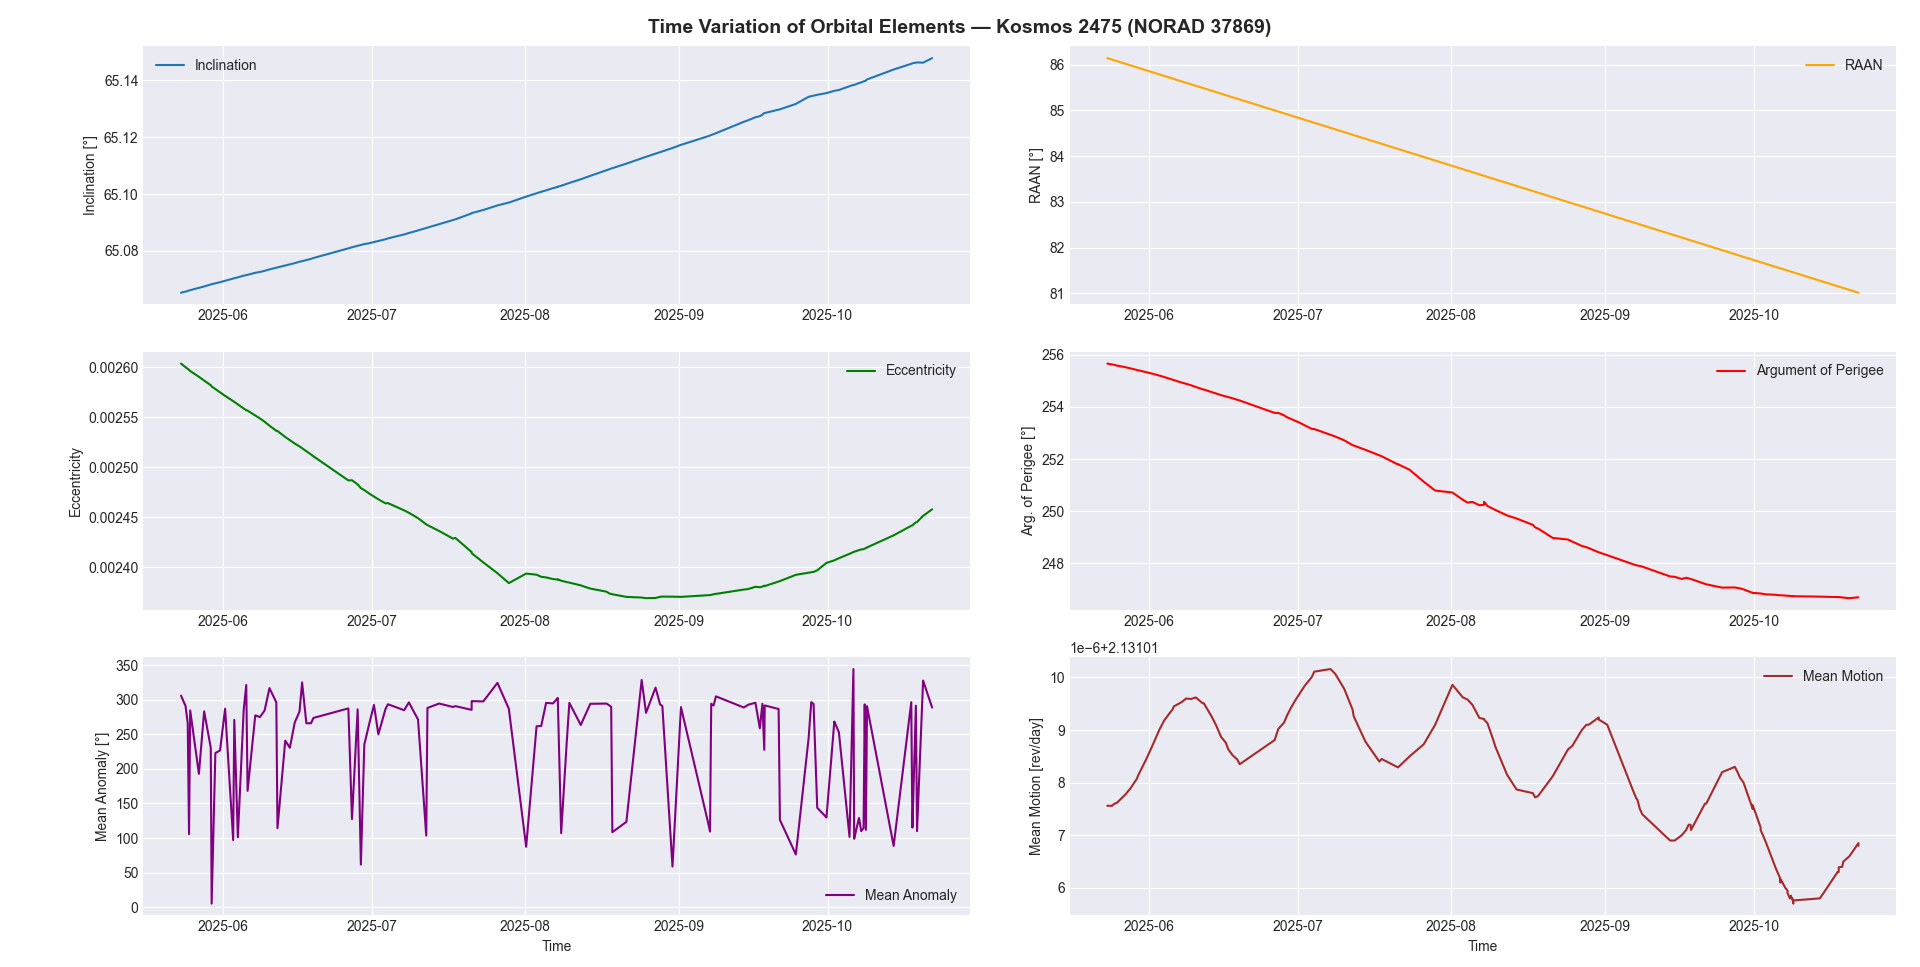
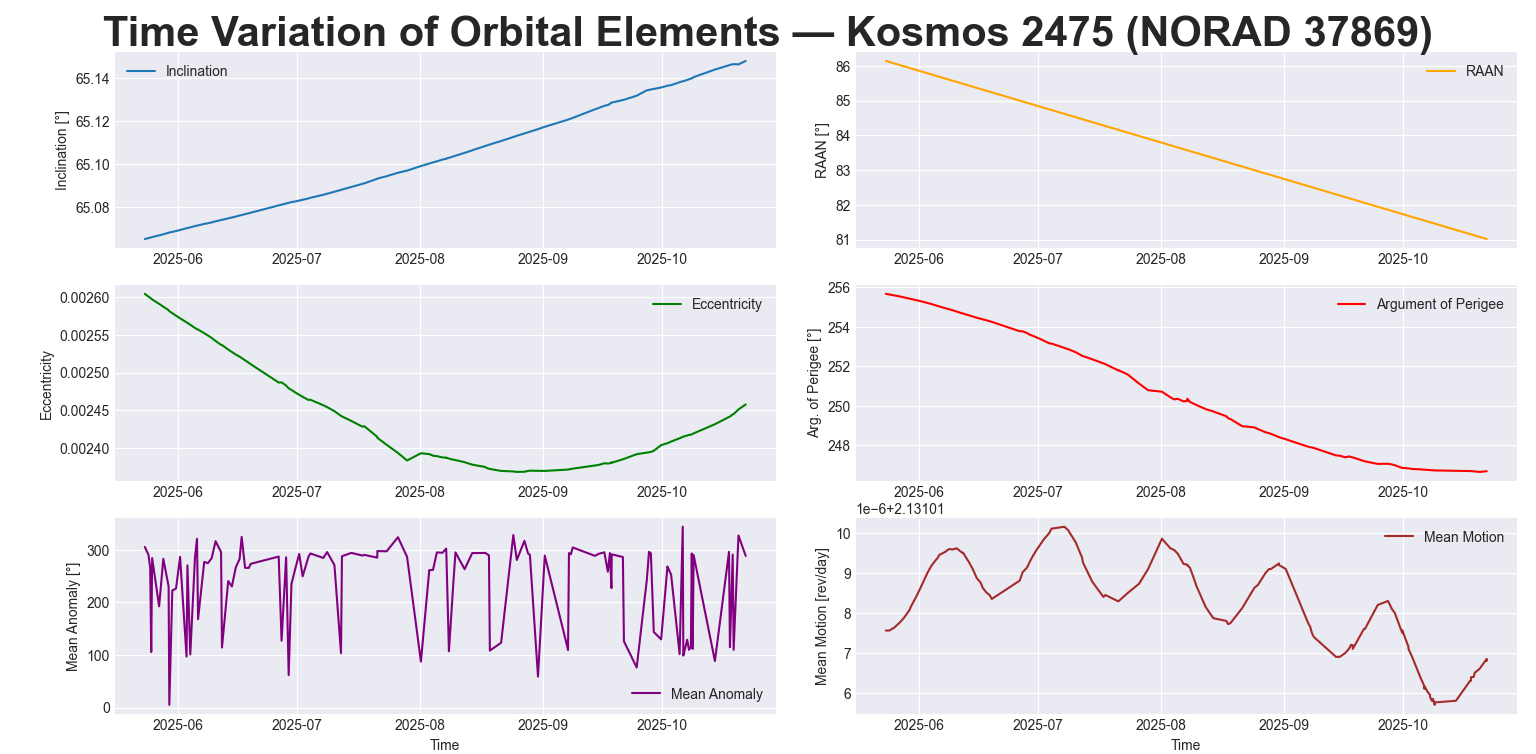
filename

diff --git a/orbit_3d_norad37869.py b/orbit_3d_norad37869.py
@@ -64,7 +64,11 @@ df = pd.DataFrame({
 # Plot
 plt.style.use('seaborn-v0_8-darkgrid')
 fig, axs = plt.subplots(3, 2, figsize=(12, 10))
-fig.suptitle("Time Variation of Orbital Elements — Kosmos 2475 (NORAD 37869)", fontsize=14, fontweight="bold")
+fig.suptitle(
+    "Time Variation of Orbital Elements — Kosmos 2475 (NORAD 37869)",
+    fontsize=30,        # Bigger title font
+    fontweight="bold"
+)
 
 axs[0, 0].plot(df["Epoch"], df["Inclination (deg)"], label="Inclination")
 axs[0, 0].set_ylabel("Inclination [°]")
